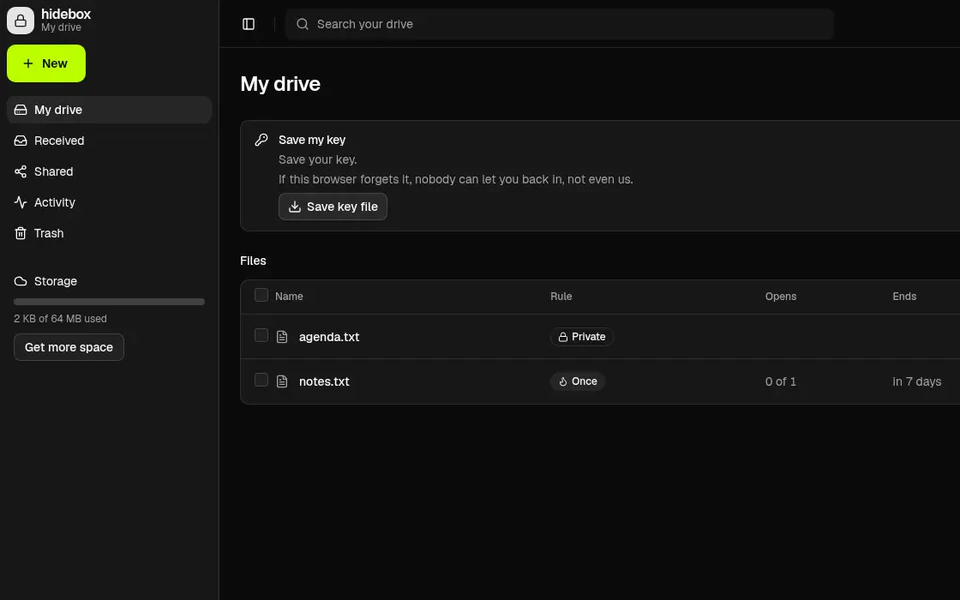
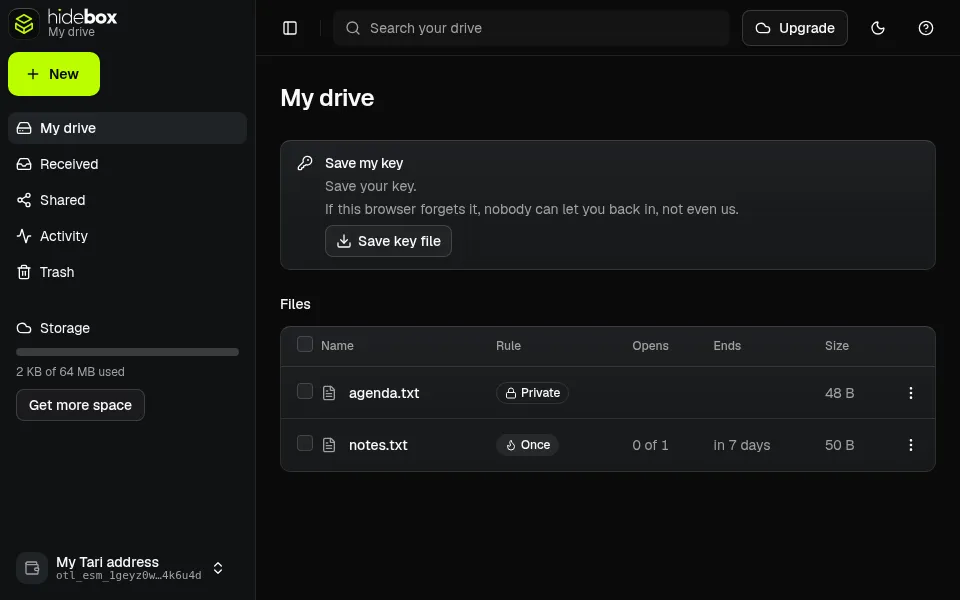
README and the repository's pictures carry the kit
The README opens on the kit's lockup as its heading (a <picture>: the light lockup, the dark one in GitHub's dark
theme; alt "hidebox"), in place of the tile above a typed title. docs/media gains both lockups (the site's lime
#BCFE00) and hidebox-mark.svg is the kit's tile. home.webp (1440 x 900, dark), drive.webp and share.webp
(960 x 600) are shot again from a local build with the new header and sidebar, and social-preview.png (1280 x 640)
is drawn again with the kit's lockup, all by docs/evidence/2026-10-19/brand-kit-1/shots_brand.py --readme.
GitHub's social card is set by hand in the repository's settings; the file is ready for that.

diff --git a/README.md b/README.md
@@ -1,9 +1,10 @@
 <!-- SPDX-License-Identifier: MIT -->
 <div align="center">
 
-<img src="docs/media/hidebox-mark.svg" width="56" height="56" alt="">
-
-# hidebox
+<h1><picture>
+  <source media="(prefers-color-scheme: dark)" srcset="docs/media/hidebox-lockup-dark.svg">
+  <img src="docs/media/hidebox-lockup-light.svg" width="243" height="56" alt="hidebox">
+</picture></h1>
 
 **Your private cloud storage. Files lock in your browser first.**
 
